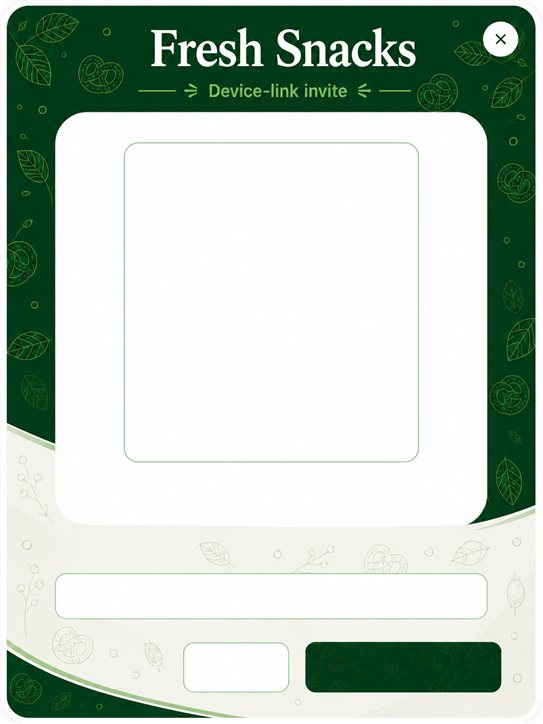
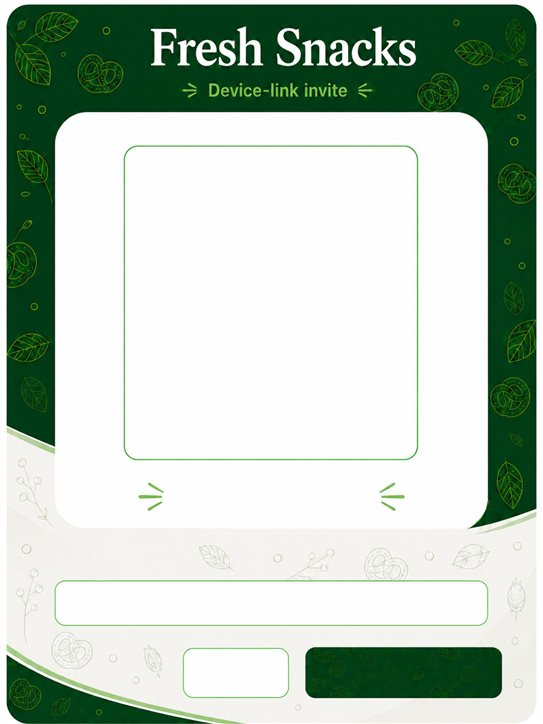
Simplify the 3-devices note to a single line and match the updated frame
The updated frame bakes in chevron marks flanking "For {name}" (removed
the HTML-drawn ones to avoid duplicates) and drops the X close button
(Close button is now the only close affordance). Shortened "Scan to link
this device — up to 3 devices per tab" to "Up to 3 devices per tab" since
the space below the chevrons is tight and wasn't meant to wrap.

diff --git a/styles.css b/styles.css
@@ -1126,25 +1126,13 @@ textarea:focus {
   box-shadow: var(--shadow);
 }
 
-/* invisible hit target over the X already baked into the frame image */
-.invite-card-x-close {
-  position: absolute;
-  top: 1%;
-  right: 1%;
-  width: 10%;
-  height: 7%;
-  border: none;
-  background: transparent;
-  cursor: pointer;
-  z-index: 2;
-}
-
 /* all overlays below sit at the exact fractional bounds of the panels
-   baked into invite-card-frame.jpg (QR box, label gap, link-input box,
+   baked into invite-card-frame.jpg (QR box, chevron gap, link-input box,
    Close button, Copy button), measured directly from the source image.
    Font/icon sizes use cqw (% of .invite-card's own width) so they shrink
    along with their panel on narrow screens instead of overflowing past
-   the card/modal/viewport edge. */
+   the card/modal/viewport edge. The frame now bakes in the chevron marks
+   that flank "For {name}", so only the plain text sits between them. */
 .invite-card-qr-area {
   position: absolute;
   left: 22.84%;
@@ -1152,42 +1140,50 @@ textarea:focus {
   width: 54.14%;
   height: 44.06%;
   display: flex;
-  flex-direction: column;
   align-items: center;
-  justify-content: flex-start;
-  padding-top: 5cqw;
-  gap: 1.2cqw;
-  text-align: center;
+  justify-content: center;
 }
 
 .invite-card-qr-area canvas {
   display: block;
-  width: 46cqw;
-  max-width: 135px;
+  width: 55cqw;
+  max-width: 155px;
   height: auto;
-  margin-bottom: 1cqw;
 }
 
+/* sits in the gap between the baked-in chevron marks, right below the QR box */
 .invite-card-name {
+  position: absolute;
+  left: 29.37%;
+  width: 41.53%;
+  top: 66.8%;
+  height: 3.2%;
+  display: flex;
+  align-items: center;
+  justify-content: center;
   margin: 0;
   color: var(--green-dark);
   font-weight: 700;
-  font-size: 4.4cqw;
+  font-size: 4cqw;
   white-space: nowrap;
+  overflow: hidden;
 }
 
-.invite-card .chev {
-  color: var(--green);
-  font-weight: 700;
-  padding: 0 0.6cqw;
-}
-
+/* short, single-line by design — the gap below the chevrons is tight */
 .invite-card-note {
+  position: absolute;
+  left: 15%;
+  width: 70%;
+  top: 69.8%;
+  height: 3%;
+  display: flex;
+  align-items: center;
+  justify-content: center;
   margin: 0;
   color: var(--muted);
-  font-size: 3.2cqw;
-  padding: 0 1.5cqw;
-  line-height: 1.3;
+  font-size: 2.9cqw;
+  white-space: nowrap;
+  overflow: hidden;
 }
 
 .invite-card-link-label {

diff --git a/admin.html b/admin.html
@@ -161,14 +161,11 @@
       <div class="invite-card">
         <h2 id="invite-modal-title" class="sr-only">Device-link invite</h2>
 
-        <!-- invisible hit target over the X baked into the frame image -->
-        <button type="button" class="invite-card-x-close" id="invite-modal-close" aria-label="Close"></button>
-
         <div class="invite-card-qr-area">
           <canvas id="invite-qr-canvas" width="240" height="240"></canvas>
-          <p class="invite-card-name"><span class="chev">&raquo;</span> For <span id="invite-card-person">Guest</span> <span class="chev">&laquo;</span></p>
-          <p class="invite-card-note">Scan to link this device — up to 3 devices per tab</p>
         </div>
+        <p class="invite-card-name">For <span id="invite-card-person">Guest</span></p>
+        <p class="invite-card-note">Up to 3 devices per tab</p>
 
         <label class="invite-card-link-label" for="invite-link-url">Invite link</label>
         <div class="invite-card-link-wrap">
@@ -226,7 +223,6 @@
     }
 
     const closeInviteModal = () => $("invite-modal-backdrop").classList.remove("show");
-    $("invite-modal-close").onclick = closeInviteModal;
     $("invite-modal-done").onclick = closeInviteModal;
     $("invite-modal-backdrop").addEventListener("click", (ev) => {
       if (ev.target === $("invite-modal-backdrop")) closeInviteModal();
@@ -243,6 +239,8 @@
     // link-input box, the Close button, and the Copy button. These same
     // fractions drive the on-screen CSS overlay positions.
     const QR_BOX = { left: 124, top: 143, right: 418, bottom: 462 };
+    const NAME_ZONE = { left: 160, right: 385, top: 486, bottom: 507 };
+    const NOTE_ZONE = { top: 507, bottom: 526 };
     const LABEL_BAND = { left: 54, top: 526, bottom: 574 };
     const LINK_BOX = { left: 54, top: 574, right: 488, bottom: 619 };
     const CLOSE_BOX = { left: 184, top: 642, right: 289, bottom: 692 };
@@ -290,21 +288,25 @@
       ctx.drawImage(frameImg, 0, 0, W, H);
       ctx.textAlign = "center";
 
-      // QR + name + note, inside the frame's reserved white box (kept
-      // visibly smaller than the box itself so there's real margin around
-      // it, matching the reference — not sized to nearly touch the panel)
+      // QR, centered in the frame's reserved box (kept visibly smaller than
+      // the box itself so there's real margin around it, matching the
+      // reference — not sized to nearly touch the panel)
       const qrBoxCenterX = (QR_BOX.left + QR_BOX.right) / 2;
-      const qrSize = 150;
+      const qrBoxCenterY = (QR_BOX.top + QR_BOX.bottom) / 2;
+      const qrSize = 170;
       const qrX = qrBoxCenterX - qrSize / 2;
-      const qrY = QR_BOX.top + 25;
+      const qrY = qrBoxCenterY - qrSize / 2;
       ctx.drawImage(qrImg, qrX, qrY, qrSize, qrSize);
 
+      // "For {name}" sits in the gap between the frame's baked-in chevron
+      // marks; the "up to 3 devices" note is short by design since the
+      // space below the chevrons is tight (not meant to wrap).
       ctx.fillStyle = "#184f2a";
-      ctx.font = "700 18px Arial, Helvetica, sans-serif";
-      ctx.fillText(`»  For ${name}  «`, qrBoxCenterX, qrY + qrSize + 30);
+      ctx.font = "700 16px Arial, Helvetica, sans-serif";
+      ctx.fillText(`For ${name}`, (NAME_ZONE.left + NAME_ZONE.right) / 2, (NAME_ZONE.top + NAME_ZONE.bottom) / 2 + 5);
       ctx.fillStyle = "#66736a";
-      ctx.font = "400 12px Arial, Helvetica, sans-serif";
-      ctx.fillText("Scan to link this device — up to 3 devices per tab", qrBoxCenterX, qrY + qrSize + 51);
+      ctx.font = "400 11px Arial, Helvetica, sans-serif";
+      ctx.fillText("Up to 3 devices per tab", qrBoxCenterX, (NOTE_ZONE.top + NOTE_ZONE.bottom) / 2 + 4);
 
       // "Invite link" label, left-aligned above the link field
       ctx.textAlign = "left";